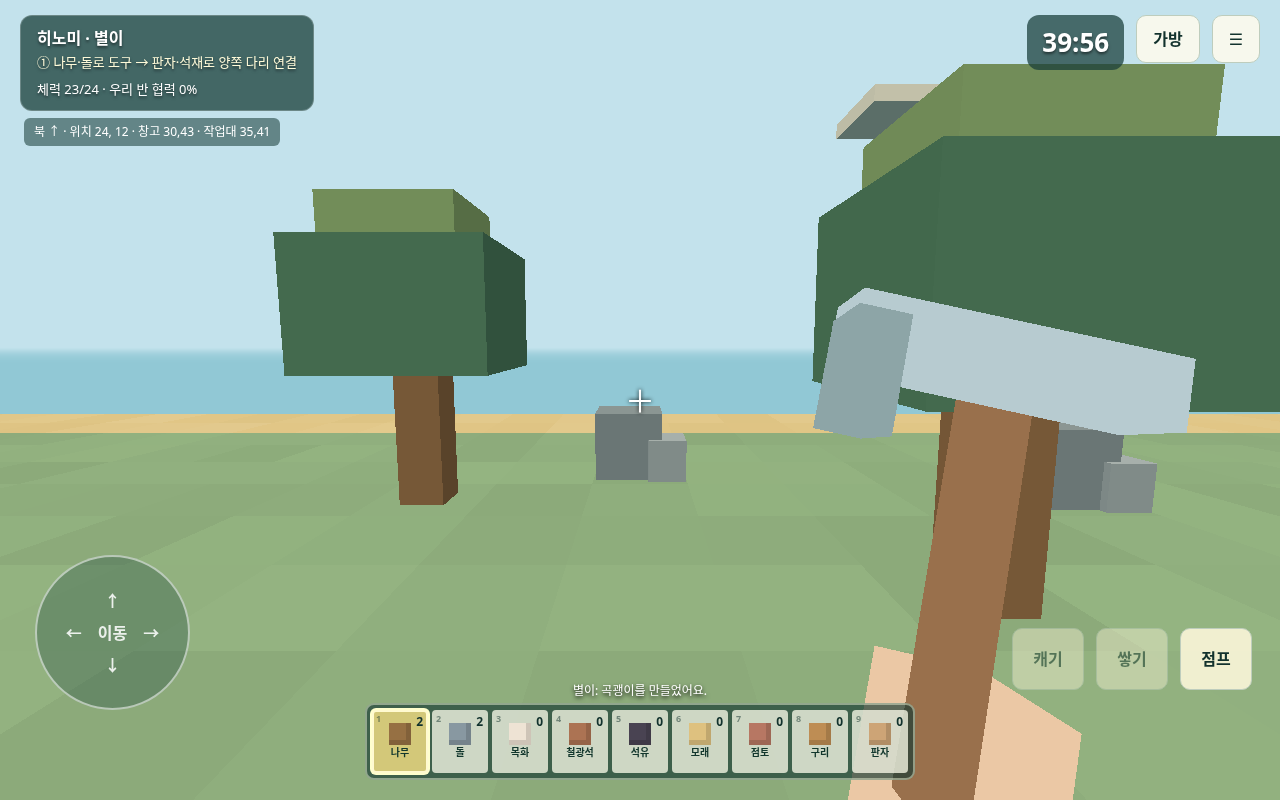
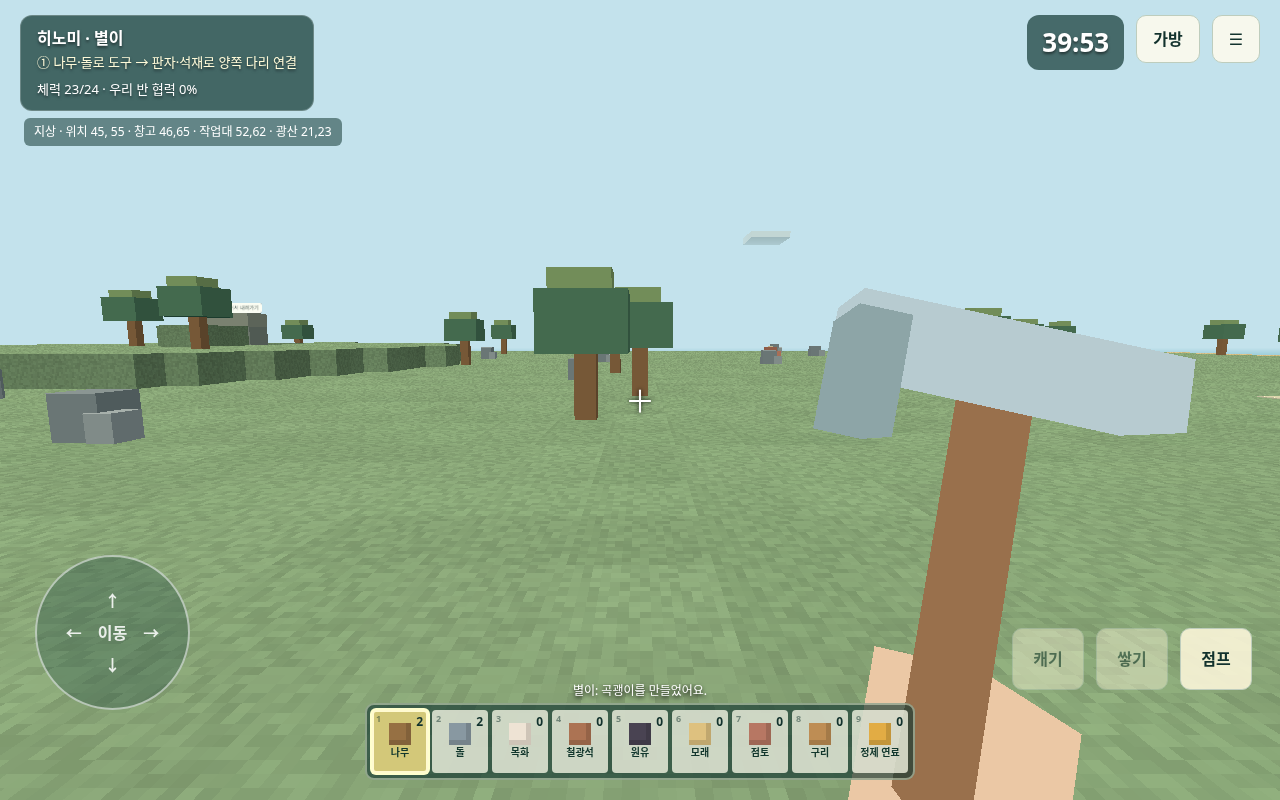
Adapt Minecraft-style terrain and continuous tablet movement

diff --git a/월드컵-본선-진출국-탐구-퀴즈/src/sandbox/SandboxApp.tsx b/월드컵-본선-진출국-탐구-퀴즈/src/sandbox/SandboxApp.tsx
@@ -22,7 +22,7 @@ export default function SandboxApp(){
  if(!session)return <div className="sandbox"><Entry onSession={setSession} error={error} setError={setError}/></div>;
  if(!env)return <main className="sandbox sb-loading"><h1>NATIONLAB</h1><p>{error||'우리 반 섬을 불러오고 있어요…'}</p><button onClick={exit}>접속 화면으로</button></main>;
  const w=env.state,teacher=session.uid===w.teacher&&!pilot,uid=pilot||session.uid;
- return <div className="sandbox">{teacher?<Teacher w={w} env={env} session={session} send={send} busy={busy} clock={clock} exit={exit} pilot={id=>{full();setPilot(id);}}/>:<Student w={w} env={env} session={session} uid={uid} send={c=>send(c,uid)} busy={busy} clock={clock} exit={exit} back={session.demo?()=>{setPilot('');document.exitFullscreen?.().catch(()=>{});}:undefined}/>} {error&&<div className="sb-toast" role="alert">{error}<button onClick={()=>setError('')} aria-label="알림 닫기">×</button></div>}</div>;
+ return <div className="sandbox">{teacher?<Teacher w={w} env={env} session={session} send={send} busy={busy} clock={clock} exit={exit} pilot={id=>{full();setPilot(id);}}/>:<Student w={w} env={env} session={session} uid={uid} send={c=>send(c,uid)} busy={busy} clock={clock} exit={exit} reportError={setError} back={session.demo?()=>{setPilot('');document.exitFullscreen?.().catch(()=>{});}:undefined}/>} {error&&<div className="sb-toast" role="alert">{error}<button onClick={()=>setError('')} aria-label="알림 닫기">×</button></div>}</div>;
 }
 function Entry({onSession,error,setError}:{onSession:(s:Session)=>void;error:string;setError:(s:string)=>void}){
  const params=new URLSearchParams(location.search),first=regions()[0];const [region,setRegion]=useState(params.get('region')||first.id),[district,setDistrict]=useState(params.get('district')||first.districts[0]),[role,setRole]=useState<'student'|'teacher'>('student'),[mode,setMode]=useState<Session['mode']>(params.get('mode')==='local'?'local':'firebase'),[school,setSchool]=useState(''),[className,setClass]=useState('6학년 1반'),[code,setCode]=useState(params.get('room')||''),[nick,setNick]=useState(''),[cfg,setCfg]=useState(JSON.stringify(api.readConnection()||{apiKey:'',authDomain:'',databaseURL:'',projectId:'',appId:''},null,2)),[busy,setBusy]=useState(false),[logged,setLogged]=useState(false),[nations,setNations]=useState<string[]>(settings().activeNations);
@@ -36,16 +36,40 @@ function Teacher({w,env,session,send,busy,clock,exit,pilot}: {w:SandboxWorld;env
  return <main className="sb-teacher"><header><div><span className="sb-kicker">NATIONLAB · 교사 화면</span><h1>{w.school} {w.className}</h1><p>{w.district} 서버 · {session.mode==='local'?'이 브라우저 체험':'실시간 연결'} · {w.stage}단계 / {w.lesson}차시</p></div><button onClick={exit}>나가기</button></header><div className="sb-teacher-grid"><section className="sb-card"><h2>방 코드 <strong className="sb-code">{w.code}</strong></h2>{session.mode==='firebase'?<><img src={qr} alt="학생 입장 QR 코드" width={180} height={180}/><button onClick={()=>navigator.clipboard.writeText(link)}>입장 링크 복사</button><p className="sb-help">수업 중 이 교사 화면을 열어 두세요. 학생 행동을 검증하고 동기화합니다.</p></>:<p>체험 학생을 골라 조작해 보세요. 다른 기기와 연결되지 않아요.</p>}<h3>학생 {Object.keys(w.players).length}명 / {w.config.maxStudents}명</h3><button disabled={busy||w.phase!=='lobby'} onClick={()=>send({type:'autoAssign',order:Object.keys(w.players).map(id=>({id,r:crypto.getRandomValues(new Uint32Array(1))[0]})).sort((a,b)=>a.r-b.r).map(a=>a.id)})}>나라 자동 배정</button><div className="sb-students">{Object.values(w.players).map(p=><div key={p.id} draggable={w.phase==='lobby'} onDragStart={e=>e.dataTransfer.setData('text/plain',p.id)}><b>{p.nickname}</b><select aria-label={`${p.nickname} 나라 배정`} disabled={w.phase!=='lobby'} value={p.nation} onChange={e=>send({type:'assign',player:p.id,nation:e.target.value})}><option value="">배정 전</option>{Object.keys(w.nations).map(id=><option key={id} value={id}>{template(w,id).short}</option>)}</select>{session.demo&&<button onClick={()=>pilot(p.id)}>학생 체험</button>}<small>채집 {p.learned.mined} · 가공 {p.learned.crafted} · 교역 {p.learned.traded} · 건축 {p.learned.built} · 계획 {p.learned.planned}</small></div>)}</div></section><section className="sb-card"><h2>{phaseNames[w.phase]} <span className="sb-timer">{time(w.phase==='playing'?w.endsAt-clock:w.remainingMs)}</span></h2><label>다음 차시 활동 시간(분)<input type="number" min={5} max={120} value={minutes} onChange={e=>setMinutes(Number(e.target.value))}/></label><div className="sb-row"><button disabled={busy||w.phase==='playing'||w.phase==='ended'} onClick={()=>send({type:'start',minutes})}>새 차시 시작</button><button disabled={busy||w.phase!=='playing'} onClick={()=>send({type:'pause'})}>모두 멈춤</button><button disabled={busy||w.phase!=='paused'||w.remainingMs<=0} onClick={()=>send({type:'resume'})}>이어서 활동</button><button disabled={busy} onClick={()=>send({type:'reflection'})}>성찰 쓰기</button><button disabled={busy} onClick={()=>send({type:'refill'})}>자원 보충</button><button disabled={busy||!w.undo} onClick={()=>send({type:'undo'})}>최근 행동 취소</button></div>{w.undo&&<small>취소 대상: {w.undo.label}</small>}<h3>우리 반 협력 진행률 {Math.round(totalProgress(w)*100)}%</h3><progress max={1} value={totalProgress(w)}/><p>{w.stage===1?'모든 나라가 다리를 하나 이상 잇고 첫 교역을 마치면 랜드마크 단계가 열려요.':'교역한 재료로 설계도를 맞추고, 모든 모둠의 작품을 승인해요.'}</p><button disabled={busy||w.stage!==1||!stageReady(w)} onClick={()=>send({type:'stage',stage:2})}>2단계 · 랜드마크 열기</button><h3>나라 현황</h3>{Object.values(w.nations).map(n=><article className="sb-nation" key={n.id} onDragOver={e=>e.preventDefault()} onDrop={e=>{e.preventDefault();send({type:'assign',player:e.dataTransfer.getData('text/plain'),nation:n.id});}}><b>{template(w,n.id).name}</b><p>{Object.values(w.bridges).filter(b=>b.a===n.id||b.b===n.id).map(b=>`다리 ${Math.round(bridgeProgress(w,b)*100)}%`).join(' · ')} · 건축 {Object.keys(n.voxels).length}개</p><details><summary>공동 창고·설계도·성찰</summary><GoodsList w={w} goods={n.stock}/><select aria-label={`${n.id} 설계도`} value={n.blueprint} disabled={!!Object.keys(n.voxels).length} onChange={e=>send({type:'blueprint',nation:n.id,blueprint:e.target.value})}>{w.config.blueprints.map((b:any)=><option key={b.id} value={b.id}>{b.name}</option>)}</select>{Object.values(w.players).filter(p=>p.nation===n.id).map(p=><div key={p.id}><h4>{p.nickname}</h4>{Object.entries(p.reflections).map(([stage,answers])=><p key={stage}>{stage}단계: {answers.join(' / ')}</p>)}</div>)}</details>{n.registration&&<div><h4>{n.registration.name}</h4><p>{n.registration.description}</p><p>{n.registration.status==='approved'?'승인됨':n.registration.status==='pending'?'승인 대기':'수정 요청'} · 세 방향 {landmarkCheck(w,n.id).match?'일치':'불일치'}</p><button disabled={busy||!landmarkCheck(w,n.id).ready} onClick={()=>send({type:'approve',nation:n.id,approved:true})}>작품 승인</button><button disabled={busy} onClick={()=>send({type:'approve',nation:n.id,approved:false})}>수정 요청</button></div>}</article>)}</section><section className="sb-card"><h2>섬 살펴보기</h2><select aria-label="관찰할 섬" value={nation} onChange={e=>setNation(e.target.value)}>{Object.keys(w.nations).map(id=><option key={id} value={id}>{template(w,id).name}</option>)}</select><div className="sb-observe"><Suspense fallback={<p>섬을 그리는 중…</p>}><World world={w} positions={{observer:{...spawn(w,'observer'),island:nation}}} uid="observer" yaw={0} pitch={0} view="top" onLook={()=>{}} onAim={()=>{}}/></Suspense></div><details><summary>교역 기록 · {Object.keys(w.trades).length}건</summary>{Object.values(w.trades).reverse().map(t=><article className="sb-trade" key={t.id}><b>{w.players[t.a]?.nickname} ↔ {w.players[t.b]?.nickname}</b><p>{Object.entries(t.give||{}).map(([g,n])=>`${w.config.goods[g].name} ${n}`).join(', ')||'물건 없음'} ↔ {Object.entries(t.receive||{}).map(([g,n])=>`${w.config.goods[g].name} ${n}`).join(', ')||'물건 없음'}</p><small>{t.status==='accepted'?'체결':t.status==='open'?'확인 중':'취소'}{t.dispatch?` · 기술자 ${t.dispatch.seconds/60}분 파견`:''}</small></article>)}</details><h3>활동 기록</h3><ol className="sb-logs">{w.logs.slice(0,30).map(l=><li key={l.id}>{l.text}</li>)}</ol><button onClick={()=>download(`NATIONLAB-${w.code}-성찰.csv`,csv(w),'text/csv;charset=utf-8')}>성찰 CSV 받기</button><button onClick={()=>download(`NATIONLAB-${w.code}-결과.json`,JSON.stringify(w,null,2),'application/json')}>전체 결과 받기</button><button disabled={busy} onClick={()=>send({type:'end'})}>수업 종료</button><details><summary>방 데이터 삭제</summary><p>먼저 필요한 결과를 내려받으세요. 이 방과 게시한 작품을 함께 삭제합니다.</p><button disabled={deleting} onClick={async()=>{setDeleting(true);try{await api.removeRoom(session);exit();}catch(e){setDeleting(false);alert((e as Error).message);}}}>이 방 영구 삭제</button></details></section></div></main>;
 }
 function time(ms:number){const s=Math.max(0,Math.ceil(ms/1000));return `${Math.floor(s/60)}:${String(s%60).padStart(2,'0')}`;}
-function Student({w,env,session,uid,send,busy,clock,exit,back}:{w:SandboxWorld;env:Envelope;session:Session;uid:string;send:(c:Command)=>void;busy:boolean;clock:number;exit:()=>void;back?:()=>void}){
+function Student({w,env,session,uid,send,busy,clock,exit,reportError,back}:{w:SandboxWorld;env:Envelope;session:Session;uid:string;send:(c:Command)=>void;busy:boolean;clock:number;exit:()=>void;reportError:(message:string)=>void;back?:()=>void}){
  const p=w.players[uid];const[yaw,setYaw]=useState(0),[pitch,setPitch]=useState(-.12),[aim,setAim]=useState<Target|null>(null),[panel,setPanel]=useState(''),[context,setContext]=useState<Target|null>(null),[selected,setSelected]=useState('wood'),[quality,setQuality]=useState<'low'|'normal'>('low'),[origin,setOrigin]=useState(false),[view,setView]=useState<'first'|'top'|'front'|'side'>('first'),[mining,setMining]=useState(false),[jump,setJump]=useState(0),[localPos,setLocalPos]=useState<Pos|null>(null);
- const moveRef=useRef({x:0,z:0}),latest=useRef<any>({}),miningLock=useRef(false),moving=useRef(false);
+ const moveRef=useRef({x:0,z:0}),latest=useRef<any>({}),miningLock=useRef(false),moving=useRef(false),lastMovePublish=useRef(0);
  const raw=env.positions[uid],basePos=p?(localPos?.island===p.location&&(localPos.zone||'surface')===(p.zone||'surface')?localPos:raw?.island===p.location&&(raw.zone||'surface')===(p.zone||'surface')?raw:spawn(w,uid)):null;const pos=basePos?{...basePos,y:surfaceHeight(w,basePos.island,basePos.x,basePos.z,p?.zone)}:null;
  useEffect(()=>{setLocalPos(null);},[uid,p?.location,p?.zone]);
  useEffect(()=>{if(w.phase==='reflection')setPanel('reflect');},[w.phase]);
  const active=!!p?.nation&&w.phase==='playing'&&clock<w.endsAt&&!panel&&view==='first';
  latest.current={w,p,pos,yaw,active,aim,selected};
- const moveStep=useCallback(async()=>{const a=latest.current;if(!a.active||!a.pos||moving.current)return;const v=moveRef.current;if(!v.x&&!v.z)return;const x=v.x*Math.cos(a.yaw)+v.z*Math.sin(a.yaw),z=-v.x*Math.sin(a.yaw)+v.z*Math.cos(a.yaw);const next={...a.pos,zone:a.p.zone||'surface',x:a.pos.x+(Math.abs(x)>Math.abs(z)?Math.sign(x):0),z:a.pos.z+(Math.abs(x)>Math.abs(z)?0:Math.sign(z))};next.y=surfaceHeight(a.w,next.island,next.x,next.z,a.p.zone);if(portalCrossing(a.w,next)){moving.current=true;moveRef.current={x:0,z:0};try{await send({type:a.p.zone==='mine'?'exitMine':'enterMine'});}finally{moving.current=false;}return;}if(!walkable(a.w,next.island,next.x,next.z,api.now(),a.p.zone)||Math.abs(next.y-a.pos.y)>1)return;moving.current=true;setLocalPos(next);try{await api.move(session,a.w,next,uid);}finally{moving.current=false;}},[session,uid,send]);
- useEffect(()=>{const t=setInterval(moveStep,180);return()=>clearInterval(t);},[moveStep]);
+ const moveStep=useCallback(async()=>{
+  const a=latest.current;if(!a.active||!a.pos||moving.current)return;
+  const v=moveRef.current;if(!v.x&&!v.z)return;
+  // Follow the continuous first-person movement of minecraft-threejs. Only
+  // the compact position is published; every tablet builds terrain locally.
+  const dx=v.x*Math.cos(a.yaw)+v.z*Math.sin(a.yaw),dz=-v.x*Math.sin(a.yaw)+v.z*Math.cos(a.yaw);
+  const length=Math.hypot(dx,dz)||1,step=.38,zone=a.p.zone||'surface';
+  const candidate={...a.pos,zone,x:a.pos.x+dx/length*step,z:a.pos.z+dz/length*step};
+  const canWalk=(point:Pos)=>walkable(a.w,point.island,point.x,point.z,api.now(),zone)&&Math.abs(surfaceHeight(a.w,point.island,point.x,point.z,zone)-a.pos.y)<=1;
+  let next=candidate;
+  if(!canWalk(next)){
+   const alongX={...candidate,z:a.pos.z},alongZ={...candidate,x:a.pos.x};
+   next=canWalk(alongX)?alongX:canWalk(alongZ)?alongZ:a.pos;
+  }
+  if(next===a.pos)return;
+  next.y=surfaceHeight(a.w,next.island,next.x,next.z,zone);
+  if(portalCrossing(a.w,next)){
+   moving.current=true;moveRef.current={x:0,z:0};
+   try{await send({type:zone==='mine'?'exitMine':'enterMine'});}finally{moving.current=false;}
+   return;
+  }
+  setLocalPos(next);
+  const time=api.now();
+  if(time-lastMovePublish.current>=210){lastMovePublish.current=time;api.move(session,a.w,next,uid).catch(e=>reportError((e as Error).message));}
+ },[session,uid,send,reportError]);
+ useEffect(()=>{const t=setInterval(moveStep,90);return()=>clearInterval(t);},[moveStep]);
  useEffect(()=>{const up=()=>{moveRef.current={x:0,z:0};};window.addEventListener('blur',up);return()=>{window.removeEventListener('blur',up);};},[]);
  const mine=useCallback(()=>{const a=latest.current;if(!a.active||!a.aim||miningLock.current||busy)return;miningLock.current=true;setMining(true);setTimeout(()=>{const b=latest.current;if(b.active&&JSON.stringify(b.aim)===JSON.stringify(a.aim)){if(a.aim.kind==='resource')send({type:'mine',node:a.aim.id});if(a.aim.kind==='voxel')send({type:'remove',key:`${a.aim.gridX}_${a.aim.gridY}_${a.aim.gridZ}`});}miningLock.current=false;setMining(false);},a.p.tools.axe?280:450);},[busy,send]);
  const place=useCallback(()=>{const a=latest.current,t=a.aim;if(!a.active||!t||!['plot','voxel'].includes(t.kind))return;const x=t.gridX,z=t.gridZ;let y=0;while(a.w.nations[a.p.nation].voxels[`${x}_${y}_${z}`])y++;send({type:'place',x,y,z,good:a.selected});},[send]);

diff --git a/tests/sandbox.test.ts b/tests/sandbox.test.ts
@@ -1,7 +1,7 @@
 import test from 'node:test';import assert from 'node:assert/strict';
 import '../월드컵-본선-진출국-탐구-퀴즈/public/config.js';
 import {makeWorld,apply,bridgeReady,stageReady,landmarkCheck,blueprint,stamina,csv,normalize} from '../월드컵-본선-진출국-탐구-퀴즈/src/sandbox/engine';
-import {facilities,bridgeStation,plotOrigin,mineEntrance,mineExit,spawn} from '../월드컵-본선-진출국-탐구-퀴즈/src/sandbox/terrain';
+import {facilities,bridgeStation,plotOrigin,mineEntrance,mineExit,spawn,walkable,surfaceHeight,heightAt} from '../월드컵-본선-진출국-탐구-퀴즈/src/sandbox/terrain';
 import {projections,blockBounds} from '../월드컵-본선-진출국-탐구-퀴즈/src/sandbox/math';
 import type {SandboxWorld,Pos} from '../월드컵-본선-진출국-탐구-퀴즈/src/sandbox/types';
 const now=1700000000000;
@@ -9,7 +9,8 @@ function fixture(){let w=makeWorld('1234','teacher','학교','6-1','seoul-test',
 function seed(w:SandboxWorld,uid:string,good:string,n:number,source=uid){for(let i=0;i<n;i++)w.players[uid].bag[good].push({id:`seed-${uid}-${good}-${i}`,good,sources:{[source]:{[good]:1}}});}
 function near(w:SandboxWorld,id:string,kind:'warehouse'|'workbench'):Record<string,Pos>{const f=facilities(w.config.size)[kind];return {[id]:{...f,x:f.x+1,y:1,island:w.players[id].location}};}
 function connected(){let w=fixture();const b=Object.values(w.bridges)[0];const pos:Record<string,Pos>={};for(const id of [b.a,b.b]){pos[id]={...bridgeStation(w,id,b.id),y:1,island:id};for(const [good,n]of Object.entries(w.config.bridge)){seed(w,id,good,Number(n));w=apply(w,id,{type:'bridge',bridge:b.id,good,quantity:Number(n)},pos,now);}}return {w,b:w.bridges[b.id],pos};}
-test('64×64 world: own mine proximity, tools, shared depletion, regenerating stamina and idempotence',()=>{let w=fixture(),id='hualian';assert.equal(w.config.size,64);const node=Object.values(w.nations[id].nodes).find(n=>n.good==='wood')!;assert.throws(()=>apply(w,id,{type:'mine',node:node.id},{},now),/가까이/);const pos={[id]:{...node,island:id}};const cmd={type:'mine',node:node.id,id:'unique-mine'};w=apply(w,id,cmd,pos,now);assert.equal(w.players[id].bag.wood.length,1);assert.equal(w.players[id].stamina,23);assert.equal(apply(w,id,cmd,pos,now).players[id].bag.wood.length,1);assert.throws(()=>apply(w,id,{type:'mine',node:node.id},pos,now),/이미/);const iron=Object.values(w.nations[id].nodes).find(n=>n.good==='iron')!;w=apply(w,id,{type:'enterMine'},{[id]:{...mineEntrance(w.config.size),island:id,y:1}},now);assert.throws(()=>apply(w,id,{type:'mine',node:iron.id},{[id]:{...iron,island:id}},now),/곡괭이/);w.players[id].stamina=0;assert.equal(stamina(w,w.players[id],now+60000),3);});
+test('seeded terrain stays aligned with fractional movement on every client',()=>{const w=fixture(),size=w.config.size,n=w.nations.hualian,node=Object.values(n.nodes).find(v=>v.good==='wood')!;assert.equal(heightAt(size,20.8,31.4),heightAt(size,20,31));assert.equal(heightAt(size,20,31),heightAt(size,20,31));assert.equal(heightAt(64,16,19),3);assert.equal(surfaceHeight(w,n.id,20.8,31.4),surfaceHeight(w,n.id,20,31));assert.equal(walkable(w,n.id,node.x+.4,node.z+.3,now),false);assert.equal(walkable(w,n.id,1.5,1.5,now),false);});
+test('96×96 world: own mine proximity, tools, shared depletion, regenerating stamina and idempotence',()=>{let w=fixture(),id='hualian';assert.equal(w.config.size,96);const node=Object.values(w.nations[id].nodes).find(n=>n.good==='wood')!;assert.throws(()=>apply(w,id,{type:'mine',node:node.id},{},now),/가까이/);const pos={[id]:{...node,island:id}};const cmd={type:'mine',node:node.id,id:'unique-mine'};w=apply(w,id,cmd,pos,now);assert.equal(w.players[id].bag.wood.length,1);assert.equal(w.players[id].stamina,23);assert.equal(apply(w,id,cmd,pos,now).players[id].bag.wood.length,1);assert.throws(()=>apply(w,id,{type:'mine',node:node.id},pos,now),/이미/);const iron=Object.values(w.nations[id].nodes).find(n=>n.good==='iron')!;w=apply(w,id,{type:'enterMine'},{[id]:{...mineEntrance(w.config.size),island:id,y:1}},now);assert.throws(()=>apply(w,id,{type:'mine',node:iron.id},{[id]:{...iron,island:id}},now),/곡괭이/);w.players[id].stamina=0;assert.equal(stamina(w,w.players[id],now+60000),3);});
 test('personal inventory → tools → processing → warehouse, visitor cannot steal',()=>{let w=fixture();seed(w,'hualian','wood',5);seed(w,'hualian','stone',5);w=apply(w,'hualian',{type:'tool',tool:'pickaxe'},{},now);assert.equal(w.players.hualian.tools.pickaxe,true);w=apply(w,'hualian',{type:'craft',good:'plank'},near(w,'hualian','workbench'),now);assert.equal(w.players.hualian.bag.plank.length,2);assert.deepEqual(w.players.hualian.bag.plank[0].sources,{hualian:{wood:.5}});w=apply(w,'hualian',{type:'warehouse',direction:'deposit',good:'plank',quantity:2},near(w,'hualian','warehouse'),now);w.players.hinomi.location='hualian';assert.throws(()=>apply(w,'hinomi',{type:'warehouse',direction:'withdraw',good:'plank',quantity:1},near(w,'hinomi','warehouse'),now),/다른 나라 창고/);assert.throws(()=>apply(w,'hualian',{type:'craft',good:'plate'},near(w,'hualian','workbench'),now),/기술/);});
 test('both bridge halves required, revision changes reset consent, atomic trade cannot duplicate stock',()=>{let {w,b,pos}=connected();assert.ok(bridgeReady(w,b));seed(w,b.a,'wood',1);seed(w,b.b,'stone',1);w=apply(w,b.a,{type:'tradeRequest',id:'trade1',other:b.b,give:{wood:1},receive:{stone:1}},pos,now);w=apply(w,b.a,{type:'tradeConfirm',trade:'trade1',revision:0},pos,now);w=apply(w,b.b,{type:'tradeEdit',trade:'trade1',goods:{stone:1}},pos,now);assert.deepEqual(w.trades.trade1.confirms,{});assert.throws(()=>apply(w,b.a,{type:'tradeConfirm',trade:'trade1',revision:0},pos,now),/바뀌/);w=apply(w,b.a,{type:'tradeConfirm',trade:'trade1',revision:1},pos,now);w=apply(w,b.a,{type:'tradeRequest',id:'trade2',other:b.b,give:{wood:1},receive:{stone:1}},pos,now);w=apply(w,b.a,{type:'tradeConfirm',trade:'trade2',revision:0},pos,now);w=apply(w,b.b,{type:'tradeConfirm',trade:'trade1',revision:1},pos,now);const before=JSON.stringify(w);assert.throws(()=>apply(w,b.b,{type:'tradeConfirm',trade:'trade2',revision:0},pos,now),/부족/);assert.equal(JSON.stringify(w),before);assert.equal(w.players[b.b].bag.wood.length,1);assert.equal(w.players[b.a].bag.stone.length,1);const incomplete=fixture();assert.throws(()=>apply(incomplete,b.a,{type:'tradeRequest',other:b.b,give:{wood:1}},pos,now),/양쪽/);w.players[b.a].location='sahar';assert.throws(()=>apply(w,b.a,{type:'tradeRequest',other:b.b,give:{stone:1}},pos,now),/두 나라/);});
 test('voluntary technician uses host stock, skills stay with nationality, expires home',()=>{let {w,b,pos}=connected();seed(w,b.a,'cotton',2);w.nations[b.b].stock.cotton=w.players[b.a].bag.cotton.splice(0);w=apply(w,b.a,{type:'tradeRequest',id:'job',other:b.b,dispatchSeconds:60},pos,now);w=apply(w,b.a,{type:'tradeConfirm',trade:'job',revision:0},pos,now);w=apply(w,b.b,{type:'tradeConfirm',trade:'job',revision:0},pos,now);assert.equal(w.players[b.a].location,b.b);w=apply(w,b.a,{type:'craft',good:'cloth'},near(w,b.a,'workbench'),now);assert.equal(w.nations[b.b].stock.cloth.length,1);assert.equal(w.nations[b.b].stock.cloth[0].processor,b.a);assert.throws(()=>apply(w,b.a,{type:'warehouse',direction:'withdraw',good:'cloth',quantity:1},near(w,b.a,'warehouse'),now),/파견/);w=apply(w,'teacher',{type:'tick'},{},now+61000);assert.equal(w.players[b.a].location,b.a);assert.equal(w.players[b.a].dispatch,undefined);});

diff --git a/월드컵-본선-진출국-탐구-퀴즈/tests/sandbox-firebase.test.ts b/월드컵-본선-진출국-탐구-퀴즈/tests/sandbox-firebase.test.ts
@@ -1,4 +1,4 @@
 import {test} from 'node:test';import {readFileSync} from 'node:fs';import {initializeTestEnvironment,assertFails,assertSucceeds} from '@firebase/rules-unit-testing';
 import '../public/config.js';import {makeWorld,apply} from '../src/sandbox/engine';
-test('sandbox RTDB: Google teacher, room membership, immutable requests, state authority, island positions',async()=>{const env=await initializeTestEnvironment({projectId:'demo-nationlab',database:{host:'127.0.0.1',port:9000,rules:readFileSync('database.rules.json','utf8')}});try{await env.clearDatabase();const teacher=env.authenticatedContext('teacher',{firebase:{sign_in_provider:'google.com'}} as any).database(),a=env.authenticatedContext('a').database(),outsider=env.authenticatedContext('outside').database();let w=makeWorld('4321','teacher','학교','6-1','seoul-test','seoul','중부');const path='sandboxes/seoul-test/4321';await assertFails(a.ref(path).set({state:{...w,teacher:'a'},members:{a:{nickname:'가짜교사'}}}));await assertSucceeds(teacher.ref(path).set({state:w,members:{teacher:{nickname:'교사'}}}));await assertFails(outsider.ref(path+'/state').get());await assertSucceeds(a.ref(path+'/members/a').set({nickname:'별이'}));await assertSucceeds(a.ref(path+'/state').get());await assertFails(a.ref(path+'/state/stage').set(2));await assertFails(a.ref(path+'/members/other').set({nickname:'다른학생'}));await assertSucceeds(a.ref(path+'/inbox/a/c1').set({id:'c1',type:'join',nickname:'별이'}));await assertFails(a.ref(path+'/inbox/a/c1').set({id:'c1',type:'join',nickname:'수정'}));await assertFails(a.ref(path+'/inbox/a/evil').set({id:'evil',type:'approve',nation:'hualian',approved:true}));await assertSucceeds(teacher.ref(path+'/inbox/a/c1').remove());for(const [i,id]of ['a','b','c','d'].entries()){w=apply(w,id,{type:'join',nickname:id});w=apply(w,'teacher',{type:'assign',player:id,nation:Object.keys(w.nations)[i]});}w=apply(w,'teacher',{type:'start'});await assertSucceeds(teacher.ref(path+'/state').set(w));await assertSucceeds(a.ref(path+'/positions/a').set({island:'hualian',x:32,y:1,z:48,at:Date.now()}));await assertFails(a.ref(path+'/positions/a').set({island:'hualian',zone:'mine',x:32,y:-8,z:48,at:Date.now()}));w.players.a.zone='mine';await assertSucceeds(teacher.ref(path+'/state').set(w));await assertSucceeds(a.ref(path+'/positions/a').set({island:'hualian',zone:'mine',x:32,y:-8,z:48,at:Date.now()}));await assertFails(a.ref(path+'/positions/a').set({island:'hualian',zone:'surface',x:32,y:1,z:48,at:Date.now()}));await assertFails(a.ref(path+'/positions/a').set({island:'sahar',x:32,y:1,z:48,at:Date.now()}));await assertFails(a.ref(path+'/positions/a').set({island:'hualian',x:999,y:1,z:48,at:Date.now()}));await assertFails(a.ref(path).remove());await assertSucceeds(teacher.ref(path).remove());}finally{await env.cleanup();}});
+test('sandbox RTDB: Google teacher, room membership, immutable requests, state authority, island positions',async()=>{const env=await initializeTestEnvironment({projectId:'demo-nationlab',database:{host:'127.0.0.1',port:9000,rules:readFileSync('database.rules.json','utf8')}});try{await env.clearDatabase();const teacher=env.authenticatedContext('teacher',{firebase:{sign_in_provider:'google.com'}} as any).database(),a=env.authenticatedContext('a').database(),outsider=env.authenticatedContext('outside').database();let w=makeWorld('4321','teacher','학교','6-1','seoul-test','seoul','중부');const path='sandboxes/seoul-test/4321';await assertFails(a.ref(path).set({state:{...w,teacher:'a'},members:{a:{nickname:'가짜교사'}}}));await assertSucceeds(teacher.ref(path).set({state:w,members:{teacher:{nickname:'교사'}}}));await assertFails(outsider.ref(path+'/state').get());await assertSucceeds(a.ref(path+'/members/a').set({nickname:'별이'}));await assertSucceeds(a.ref(path+'/state').get());await assertFails(a.ref(path+'/state/stage').set(2));await assertFails(a.ref(path+'/members/other').set({nickname:'다른학생'}));await assertSucceeds(a.ref(path+'/inbox/a/c1').set({id:'c1',type:'join',nickname:'별이'}));await assertFails(a.ref(path+'/inbox/a/c1').set({id:'c1',type:'join',nickname:'수정'}));await assertFails(a.ref(path+'/inbox/a/evil').set({id:'evil',type:'approve',nation:'hualian',approved:true}));await assertSucceeds(teacher.ref(path+'/inbox/a/c1').remove());for(const [i,id]of ['a','b','c','d'].entries()){w=apply(w,id,{type:'join',nickname:id});w=apply(w,'teacher',{type:'assign',player:id,nation:Object.keys(w.nations)[i]});}w=apply(w,'teacher',{type:'start'});await assertSucceeds(teacher.ref(path+'/state').set(w));await assertSucceeds(a.ref(path+'/positions/a').set({island:'hualian',x:32,y:1,z:48,at:Date.now()}));await assertSucceeds(a.ref(path+'/positions/a').set({island:'hualian',x:32.38,y:1,z:48.76,at:Date.now()}));await assertFails(a.ref(path+'/positions/a').set({island:'hualian',zone:'mine',x:32,y:-8,z:48,at:Date.now()}));w.players.a.zone='mine';await assertSucceeds(teacher.ref(path+'/state').set(w));await assertSucceeds(a.ref(path+'/positions/a').set({island:'hualian',zone:'mine',x:32,y:-8,z:48,at:Date.now()}));await assertFails(a.ref(path+'/positions/a').set({island:'hualian',zone:'surface',x:32,y:1,z:48,at:Date.now()}));await assertFails(a.ref(path+'/positions/a').set({island:'sahar',x:32,y:1,z:48,at:Date.now()}));await assertFails(a.ref(path+'/positions/a').set({island:'hualian',x:999,y:1,z:48,at:Date.now()}));await assertFails(a.ref(path).remove());await assertSucceeds(teacher.ref(path).remove());}finally{await env.cleanup();}});
 test('Firestore approved gallery: only owning Google teacher writes, members read, outsiders denied',async()=>{const env=await initializeTestEnvironment({projectId:'demo-nationlab',firestore:{host:'127.0.0.1',port:8080,rules:readFileSync('firestore.rules','utf8')}});try{await env.clearFirestore();const teacher=env.authenticatedContext('teacher',{firebase:{sign_in_provider:'google.com'}} as any).firestore(),a=env.authenticatedContext('a').firestore(),outsider=env.authenticatedContext('outside',{firebase:{sign_in_provider:'google.com'}} as any).firestore();const path='classroomLandmarks/teacher/rooms/seoul-test--4321';const payload={teacher:'teacher',school:'학교',className:'6-1',members:{teacher:true,a:true},landmarks:{hualian:{name:'정원',packed:'[[1,0,1,"wood",{},""]]'}}};await assertSucceeds(teacher.doc(path).set(payload));await assertSucceeds(a.doc(path).get());await assertFails(outsider.doc(path).get());await assertFails(a.doc(path).set(payload));await assertFails(outsider.doc(path).set({...payload,teacher:'outside'}));await assertSucceeds(teacher.doc(path).delete());}finally{await env.cleanup();}});

diff --git a/월드컵-본선-진출국-탐구-퀴즈/src/sandbox/terrain.ts b/월드컵-본선-진출국-탐구-퀴즈/src/sandbox/terrain.ts
@@ -1,23 +1,33 @@
 import type {SandboxWorld,Pos,Target,Zone} from './types';
+import {ImprovedNoise} from 'three/addons/math/ImprovedNoise.js';
+// Terrain follows minecraft-threejs's layered, seeded noise approach. The seed is
+// fixed so every tablet derives the same landscape without Firebase terrain blobs.
+const landscapeNoise=new ImprovedNoise();
 export const plotOrigin = (size:number) => ({x:Math.floor(size*.64), z:Math.floor(size*.44)});
 export function land(size:number,x:number,z:number) {const edge=2;return x>=edge&&z>=edge&&x<size-edge&&z<size-edge&&Math.hypot(Math.max(0,Math.abs(x-size/2)-(size/2-8)),Math.max(0,Math.abs(z-size/2)-(size/2-8)))<7;}
 export function heightAt(size:number,x:number,z:number) {
+ x=Math.floor(x);z=Math.floor(z);
  if(!land(size,x,z))return -1;
  const p=plotOrigin(size); if(x>=p.x-2&&x<p.x+18&&z>=p.z-2&&z<p.z+18)return 1;
- if(Math.abs(x-size/2)<3 || z>size*.68)return 1;
- const hill=Math.max(0,1-Math.hypot(x-size*.24,z-size*.29)/(size*.22));return 1+Math.floor(hill*3);
+ // Rooms created with the earlier 64-cell map keep their original terrain.
+ if(size<96){if(Math.abs(x-size/2)<3||z>size*.68)return 1;const hill=Math.max(0,1-Math.hypot(x-size*.24,z-size*.29)/(size*.22));return 1+Math.floor(hill*3);}
+ const entrance=mineEntrance(size);
+ if(Math.abs(x-size/2)<3 || z>size*.68 || Math.hypot(x-entrance.x,z-entrance.z)<4 || (Math.abs(z-size/2)<3&&(x<9||x>size-9)))return 1;
+ const ridge=Math.max(0,1-Math.hypot(x-size*.24,z-size*.29)/(size*.25));
+ const broad=landscapeNoise.noise(x/24,z/24,2.19),detail=landscapeNoise.noise(x/9,z/9,7.73);
+ return Math.max(1,Math.min(5,1+Math.floor(ridge*2+Math.max(0,broad*.9+detail*.35))));
 }
 export function facilities(size:number) {return {warehouse:{x:Math.floor(size*.48),z:Math.floor(size*.68)},workbench:{x:Math.floor(size*.55),z:Math.floor(size*.65)},blueprint:{x:plotOrigin(size).x-2,z:plotOrigin(size).z+2}};}
 export function bridgeStation(w:SandboxWorld,nation:string,bridgeId:string) {const b=w.bridges[bridgeId],size=w.config.size;return {x:b.a===nation?size-5:4,z:Math.floor(size/2)};}
 export function spawn(w:SandboxWorld,uid:string):Pos {const p=w.players[uid];const size=w.config.size;if(p?.zone!=='mine'&&p?.arrival==='mine'){const t=mineEntrance(size);return {island:p.location,...t,z:t.z+2,y:heightAt(size,t.x,t.z+2),zone:'surface'};}if(p?.zone==='mine'){const e=mineExit(w);return {...e,z:e.z-2,island:p.location,zone:'mine',y:mineFloor(w)};}if(p?.location&&p.location!==p.nation){const bridge=Object.values(w.bridges).find(b=>(b.a===p.nation&&b.b===p.location)||(b.b===p.nation&&b.a===p.location));if(bridge){const t=bridgeStation(w,p.location,bridge.id);return {island:p.location,x:t.x,y:heightAt(size,t.x,t.z+1),z:t.z+1};}}const index=Object.keys(w.players).indexOf(uid);const x=Math.floor(size/2)+(index%3),z=Math.floor(size*.76)+Math.floor(index/3)%3;return {island:p?.location||p?.nation||Object.keys(w.nations)[0],x,y:heightAt(size,x,z),z};}
 export function reachable(pos:Pos,t:Pick<Target,'island'|'x'|'z'|'zone'>,distance=2.5) {return (pos.zone||'surface')===(t.zone||'surface')&&pos.island===t.island&&Math.hypot(pos.x-t.x,pos.z-t.z)<=distance;}
-export function walkable(w:SandboxWorld,island:string,x:number,z:number,now=Date.now(),zone:Zone='surface') {if(zone==='mine')return !!w.nations[island]&&mineLand(w,x,z)&&!minePillar(w,x,z)&&!Object.values(w.nations[island].nodes).some(n=>n.zone==='mine'&&n.x===x&&n.z===z&&n.readyAt<=now);return !!w.nations[island]&&land(w.config.size,x,z)&&!Object.values(w.nations[island].nodes).some(n=>(n.zone||'surface')==='surface'&&n.x===x&&n.z===z&&n.readyAt<=now)&&!Object.values(facilities(w.config.size)).some(n=>n.x===x&&n.z===z);}
+export function walkable(w:SandboxWorld,island:string,x:number,z:number,now=Date.now(),zone:Zone='surface') {x=Math.floor(x);z=Math.floor(z);if(zone==='mine')return !!w.nations[island]&&mineLand(w,x,z)&&!minePillar(w,x,z)&&!Object.values(w.nations[island].nodes).some(n=>n.zone==='mine'&&n.x===x&&n.z===z&&n.readyAt<=now);return !!w.nations[island]&&land(w.config.size,x,z)&&!Object.values(w.nations[island].nodes).some(n=>(n.zone||'surface')==='surface'&&n.x===x&&n.z===z&&n.readyAt<=now)&&!Object.values(facilities(w.config.size)).some(n=>n.x===x&&n.z===z);}
 /** Feet stand on the highest supported cube, never inside a landmark. */
-export function surfaceHeight(w:SandboxWorld,island:string,x:number,z:number,zone:Zone='surface'){if(zone==='mine')return mineFloor(w);const origin=plotOrigin(w.config.size);return heightAt(w.config.size,x,z)+Math.max(0,...Object.values(w.nations[island]?.voxels||{}).filter(v=>v.x===x-origin.x&&v.z===z-origin.z).map(v=>v.y+1));}
+export function surfaceHeight(w:SandboxWorld,island:string,x:number,z:number,zone:Zone='surface'){if(zone==='mine')return mineFloor(w);x=Math.floor(x);z=Math.floor(z);const origin=plotOrigin(w.config.size);return heightAt(w.config.size,x,z)+Math.max(0,...Object.values(w.nations[island]?.voxels||{}).filter(v=>v.x===x-origin.x&&v.z===z-origin.z).map(v=>v.y+1));}
 
 export const mineEntrance=(size:number)=>({x:Math.floor(size*.22),z:Math.floor(size*.24)});
 export const mineFloor=(w:SandboxWorld)=>w.config.mine?.floor??-8;
 export const mineExit=(w:SandboxWorld)=>({x:Math.floor(w.config.size/2),z:w.config.size-(w.config.mine?.margin??8)-1});
 export function mineLand(w:SandboxWorld,x:number,z:number){const m=w.config.mine?.margin??8;return x>m&&z>m&&x<w.config.size-m&&z<w.config.size-m;}
 export function minePillar(w:SandboxWorld,x:number,z:number){return Math.abs(x-w.config.size/2)>2&&x%12===8&&z%12===8;}
-export function portalCrossing(w:SandboxWorld,p:Pos){const t=p.zone==='mine'?mineExit(w):mineEntrance(w.config.size);return p.x===t.x&&p.z===t.z;}
+export function portalCrossing(w:SandboxWorld,p:Pos){const t=p.zone==='mine'?mineExit(w):mineEntrance(w.config.size);return Math.floor(p.x)===t.x&&Math.floor(p.z)===t.z;}

diff --git a/월드컵-본선-진출국-탐구-퀴즈/src/sandbox/voxelRenderer.ts b/월드컵-본선-진출국-탐구-퀴즈/src/sandbox/voxelRenderer.ts
@@ -17,14 +17,14 @@ const key=(x:number,y:number,z:number)=>`${x},${y},${z}`;
 const noise=(x:number,z:number)=>Math.abs(Math.sin(x*127.1+z*311.7)*43758.5453)%1;
 /** One indexed mesh per chunk, with faces between solid cells omitted. Colors replace an asset download. */
 export function blockGeometry(blocks:Block[], occupied:(x:number,y:number,z:number)=>boolean) {
- const vertices:number[]=[],normals:number[]=[],colors:number[]=[],indices:number[]=[],targets:(Target|undefined)[]=[];
+ const vertices:number[]=[],normals:number[]=[],colors:number[]=[],uvs:number[]=[],indices:number[]=[],targets:(Target|undefined)[]=[];
  for(const b of blocks)faces.forEach((f,fi)=>{
   if(occupied(b.x+f.n[0],b.y+f.n[1],b.z+f.n[2]))return;
   const start=vertices.length/3,color=new THREE.Color(b.colors?.[fi%b.colors.length]||b.color).multiplyScalar(f.shade);
-  f.c.forEach(c=>{vertices.push(b.x+c[0],b.y+c[1],b.z+c[2]);normals.push(...f.n);colors.push(color.r,color.g,color.b);});
+  f.c.forEach(c=>{vertices.push(b.x+c[0],b.y+c[1],b.z+c[2]);normals.push(...f.n);colors.push(color.r,color.g,color.b);uvs.push(f.n[1]?c[0]:f.n[0]?c[2]:c[0],f.n[1]?c[2]:c[1]);});
   indices.push(start,start+1,start+2,start,start+2,start+3);targets.push(b.target);
  });
- const g=new THREE.BufferGeometry();g.setAttribute('position',new THREE.Float32BufferAttribute(vertices,3));g.setAttribute('normal',new THREE.Float32BufferAttribute(normals,3));g.setAttribute('color',new THREE.Float32BufferAttribute(colors,3));g.setIndex(indices);g.computeBoundingSphere();g.userData.targets=targets;return g;
+ const g=new THREE.BufferGeometry();g.setAttribute('position',new THREE.Float32BufferAttribute(vertices,3));g.setAttribute('normal',new THREE.Float32BufferAttribute(normals,3));g.setAttribute('color',new THREE.Float32BufferAttribute(colors,3));g.setAttribute('uv',new THREE.Float32BufferAttribute(uvs,2));g.setIndex(indices);g.computeBoundingSphere();g.userData.targets=targets;return g;
 }
 export function voxelBlocks(voxels:Record<string,Voxel>,config:any,origin=false,offset={x:0,y:0,z:0},island=''):Block[]{
  return Object.entries(voxels).map(([id,v])=>{
@@ -46,7 +46,15 @@ export function createVoxelRenderer(canvas:HTMLCanvasElement,initial:WorldView){
  const geo=<T extends THREE.BufferGeometry>(g:T)=>{geometries.add(g);return g;};const cube=geo(new THREE.BoxGeometry(1,1,1));
  const palette=new Map<string,THREE.MeshLambertMaterial>();
  function material(color:string){if(!palette.has(color)){const m=new THREE.MeshLambertMaterial({color,flatShading:true});palette.set(color,m);materials.add(m);}return palette.get(color)!;}
- const vertexMaterial=new THREE.MeshLambertMaterial({vertexColors:true,flatShading:true});materials.add(vertexMaterial);
+ // minecraft-threejs uses nearest-neighbor block textures. Generate our own
+ // 16-pixel pattern here: no Minecraft or third-party texture files are shipped.
+ const pixelCanvas=document.createElement('canvas');pixelCanvas.width=16;pixelCanvas.height=16;
+ const pixelContext=pixelCanvas.getContext('2d')!;
+ for(let py=0;py<16;py++)for(let px=0;px<16;px++){
+  const n=noise(px,py),light=Math.round(225+n*30);pixelContext.fillStyle=`rgb(${light},${light},${light})`;pixelContext.fillRect(px,py,1,1);
+ }
+ const pixelTexture=new THREE.CanvasTexture(pixelCanvas);pixelTexture.magFilter=THREE.NearestFilter;pixelTexture.minFilter=THREE.NearestFilter;pixelTexture.colorSpace=THREE.SRGBColorSpace;textures.add(pixelTexture);
+ const vertexMaterial=new THREE.MeshLambertMaterial({vertexColors:true,flatShading:true,map:pixelTexture});materials.add(vertexMaterial);
  function box(parent:THREE.Object3D,color:string,x:number,y:number,z:number,sx:number,sy:number,sz:number){const m=new THREE.Mesh(cube,material(color));m.position.set(x,y,z);m.scale.set(sx,sy,sz);parent.add(m);return m;}
  function textLabel(parent:THREE.Object3D,text:string,x:number,y:number,z:number,color='#3d624e',height=.45){
   const c=document.createElement('canvas'),ctx=c.getContext('2d')!;ctx.font='600 26px sans-serif';c.width=Math.ceil(ctx.measureText(text).width+32);c.height=48;

diff --git a/월드컵-본선-진출국-탐구-퀴즈/public/config.js b/월드컵-본선-진출국-탐구-퀴즈/public/config.js
@@ -493,7 +493,7 @@ globalThis.NATIONLAB_CONFIG = {
 /* 샌드박스 수업: 아래 숫자와 나라·설계도를 교사가 조절할 수 있습니다. */
 globalThis.NATIONLAB_CONFIG.experience = "sandbox";
 globalThis.NATIONLAB_CONFIG.sandbox = {
-  size: 64, height: 32,
+  size: 96, height: 32,
   mine:{floor:-8,ceiling:-2,margin:8,stone:24}, activeNations: ["hualian", "hinomi", "sahar", "lumina"],
   totalLessons: 8, lessonMinutes: 40, maxStudents: 40,
   stamina: {max: 24, intervalSeconds: 60, refill: 3}, resourceSeconds: 180,

diff --git a/README.md b/README.md
@@ -7,7 +7,7 @@
 ## 이번 버전
 
 1. 교육청·교육지원청 서버를 선택하여 반을 만들고, 학생을 기본 네 나라에 배정합니다.
-2. 64×64 섬에서 나무·돌을 캐고 도끼·곡괭이를 만듭니다. 자원은 개인 가방에 담기며 공동 창고에 나눌 수 있습니다.
+2. 기본 96×96 섬의 픽셀 블록 지형에서 나무·돌을 캐고 도끼·곡괭이를 만듭니다. 자원은 개인 가방에 담기며 공동 창고에 나눌 수 있습니다.
 3. 가공한 판자·석재로 **양쪽 다리 절반을 모두** 완성하면 이웃과 교역할 수 있습니다.
 4. 두 학생이 제안을 확인하면 물건이 동시에 교환됩니다. 내용 수정은 양쪽 동의를 초기화합니다. 본인 동의로 기술자 파견도 할 수 있습니다.
 5. 공동 계획판에 층수를 쓰고, 교역한 재료로 5×5×4 부지에 랜드마크를 쌓습니다. 예시 정답과 다른 입체라도 위·앞·옆 투영과 재료 조건이 맞으면 인정합니다.
@@ -99,9 +99,13 @@ Realtime Database에는 행동·가방·위치를, Firestore에는 승인 작품
 
 기본 운영안은 요구서의 1주일·8차시입니다. 이번 시범 버전은 다리와 랜드마크까지만 운영합니다. 자동 시뮬레이션은 경제 규칙의 가능성을 확인하며 이동·협상·설명 시간을 포함한 실제 수업 길이를 예측하지 않습니다.
 
+## 마인크래프트형 화면 이식
+
+[minecraft-threejs](https://github.com/vyse12138/minecraft-threejs)의 지형 노이즈·연속 이동·가까운 픽셀 블록 표현을 현재 학급 게임에 맞춰 이식했습니다. 새 방의 섬은 96×96이고 각 기기가 동일한 지형을 직접 생성하므로 Firebase에는 학생 위치와 채굴·건축 결과만 저장합니다. 원본 게임의 텍스처와 음악은 가져오지 않았으며 블록 무늬는 코드에서 생성합니다. MIT 고지는 [THIRD_PARTY_NOTICES.md](THIRD_PARTY_NOTICES.md)에 있습니다. 전국 단일 오픈월드와 타 학급 실시간 방문은 아직 별도 개발 단계입니다.
+
 ## 광산과 원유 정제
 
-광산 입구(기본 위치 14,15)를 향해 걸어가 입구 칸을 지나면 같은 섬의 지하 구역으로 내려갑니다. 가까이에서 입구를 조준해 내려가기 버튼을 눌러도 됩니다. 철·구리 광석은 지하에 있으며 곡괭이가 필요합니다. 지하에도 돌이 있어 함께 캘 수 있습니다. 밝은 출구(기본 위치 32,55)를 걸어 지나면 지상 입구로 돌아옵니다. 가방·체력·재생 대기시간은 유지되고, 지하에서 새로고침해도 같은 구역에 복귀합니다.
+광산 입구를 향해 걸어가 입구 칸을 지나면 같은 섬의 지하 구역으로 내려갑니다. 가까이에서 입구를 조준해 내려가기 버튼을 눌러도 됩니다. 철·구리 광석은 지하에 있으며 곡괭이가 필요합니다. 지하에도 돌이 있어 함께 캘 수 있습니다. 밝은 출구를 걸어 지나면 지상 입구로 돌아옵니다. 화면 나침반에서 현재 지형 크기에 맞는 입구·출구 좌표를 확인할 수 있습니다. 가방·체력·재생 대기시간은 유지되고, 지하에서 새로고침해도 같은 구역에 복귀합니다.
 
 - 사하르의 **원유**는 그대로 유리·철판 가공에 사용할 수 없습니다.
 - 루미나의 **원유 정제 기술**로 원유 2개 → 정제 연료 2개를 만듭니다.
@@ -114,7 +118,7 @@ Realtime Database에는 행동·가방·위치를, Firestore에는 승인 작품
 
 [public/config.js](월드컵-본선-진출국-탐구-퀴즈/public/config.js)의 **`NATIONLAB_CONFIG.sandbox`**에 나라·자원·체력·재생·조합·다리·설계도·시간·성찰을 모았습니다. 변경은 새 방부터 적용됩니다.
 
-- `size`: 48~96, 기본 64. `plot`: 기본 5×5×4.
+- `size`: 48~96, 기본 96. 기존 방의 섬 크기는 유지됩니다. `plot`: 기본 5×5×4.
 - `materials`: 블록 5종, 수입 3종, 가공 1종이 기본 등록 조건입니다.
 - `blueprints[].heights`: 교사용 원본 층수 배열입니다. 학생 화면은 투영 그림을 제시합니다. 정답 배열을 비밀로 숨기는 시험 도구는 아닙니다.
 - `specialties`, `technologies` 변경 후에는 시뮬레이션과 시범 수업으로 균형을 확인하세요.

diff --git a/docs/ACCEPTANCE.md b/docs/ACCEPTANCE.md
@@ -7,7 +7,7 @@
 | 검사 | 결과와 범위 |
 | --- | --- |
 | TypeScript, Vite 정적 빌드 | 통과. Three.js/Firebase 지연 로딩 청크의 크기 경고는 남아 있음 |
-| `npm test` | 20개 통과: 현재 샌드박스 11개, 보존한 이전 모드 9개 |
+| `npm test` | 21개 통과: 현재 샌드박스 12개, 보존한 이전 모드 9개 |
 | 쌓기나무 최소·최대 계산 | 3×3, 높이 0~2의 19,683개 입체를 전수 생성. 8,985개 투영 집합 모두 실제 최소·최대와 일치 |
 | 개인 가방·공동 창고·도구·가공 | 엔진 검사 통과. 방문자가 외국 창고를 가져가는 우회 차단 |
 | 다리·개인 교역 | 양쪽 다리, 양쪽 확인, 수정 시 동의 초기화, 중복 요청, 같은 재고를 쓰는 거래 경쟁 검사 통과 |
@@ -63,5 +63,11 @@ Auth·RTDB·Firestore 에뮬레이터와 독립 Chromium 컨텍스트로 교사 
 ## 지하 광산·원유 정제 추가 검사
 
 광산 출입 거리와 지상/지하 행동 분리, 광석 채굴, 지하에서 지상 시설 사용 금지, 정제 기술 제한, 원유의 유리·철판 직접 사용 거부, 원유 산지와 중간 정제 나라 이력, 기존 방의 재고·대기시간을 유지하는 갱신을 엔진에서 검사합니다. RTDB 규칙은 학생이 출입 명령 없이 위치의 지상/지하 값을 바꾸는 것을 거부합니다.
+
+## 마인크래프트형 지형·이동 시험
+
+새 방은 96×96 지형을 고정 시드 노이즈로 생성하고 픽셀 블록 무늬를 코드로 그립니다. 브라우저 검사에서 전체화면 이동, 소수 좌표 위치 저장, 채굴·건축·광산 복귀를 확인했습니다. RTDB 규칙 검사에서 소수 좌표는 허용하고 다른 섬·영역 밖 좌표는 거부합니다. 교사와 학생 5명의 공동 방에서 동시 채굴 중복 방지도 다시 확인했습니다. 실제 갤럭시탭의 fps와 전국 오픈월드 부하는 아직 측정하지 않았습니다.
+
+1280×800 터치 태블릿 에뮬레이션에서 조이스틱으로 소수 좌표 이동을 확인했고, 행동 버튼 높이는 각각 62px로 측정했습니다.
 
 `node scripts/mine-browser.cjs`는 준비된 위치에서 실제 키 이동으로 입구 통과, 지하 조준·채굴, 지하 새로고침, 출구 통과, 가방 유지까지 검사합니다. 위치·곡괭이를 테스트용으로 준비하며, 섬 전체를 걸어 탐험한 시험과 구분합니다.

diff --git a/THIRD_PARTY_NOTICES.md b/THIRD_PARTY_NOTICES.md
@@ -1,0 +1,27 @@
+# Third-party notices
+
+NATIONLAB's terrain noise, continuous movement, and pixel-block presentation
+were adapted from [minecraft-threejs](https://github.com/vyse12138/minecraft-threejs).
+No upstream textures, sound files, or Minecraft assets are included.
+
+MIT License
+
+Copyright (c) 2022 Vyse12138
+
+Permission is hereby granted, free of charge, to any person obtaining a copy
+of this software and associated documentation files (the "Software"), to deal
+in the Software without restriction, including without limitation the rights
+to use, copy, modify, merge, publish, distribute, sublicense, and/or sell
+copies of the Software, and to permit persons to whom the Software is
+furnished to do so, subject to the following conditions:
+
+The above copyright notice and this permission notice shall be included in all
+copies or substantial portions of the Software.
+
+THE SOFTWARE IS PROVIDED "AS IS", WITHOUT WARRANTY OF ANY KIND, EXPRESS OR
+IMPLIED, INCLUDING BUT NOT LIMITED TO THE WARRANTIES OF MERCHANTABILITY,
+FITNESS FOR A PARTICULAR PURPOSE AND NONINFRINGEMENT. IN NO EVENT SHALL THE
+AUTHORS OR COPYRIGHT HOLDERS BE LIABLE FOR ANY CLAIM, DAMAGES OR OTHER
+LIABILITY, WHETHER IN AN ACTION OF CONTRACT, TORT OR OTHERWISE, ARISING FROM,
+OUT OF OR IN CONNECTION WITH THE SOFTWARE OR THE USE OR OTHER DEALINGS IN THE
+SOFTWARE.
